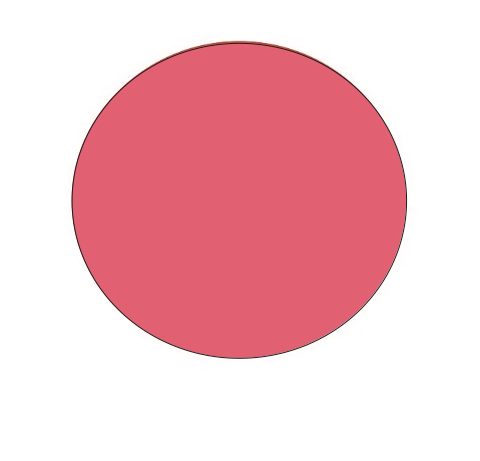
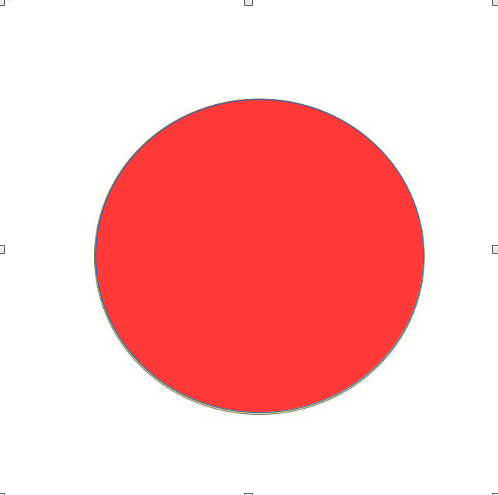
Reroll button is now shown to the other player. Purple dice image is replaced

diff --git a/src/components/gameelements/DiceField.js b/src/components/gameelements/DiceField.js
@@ -111,7 +111,6 @@ function DiceField(props) {
   };
 
   const sendCanceledDice = (dice) => {
-    console.log("send");
     if (stompClient) {
       stompClient.publish({
         destination: "/app/canceldice",
@@ -189,7 +188,7 @@ function DiceField(props) {
         }
       }
       setGroupedDiceRolls([...groupedDiceRolls]);
-      if (selectedDiceForReroll !== []) {
+      if (selectedDiceForReroll !== [] && props.actualPlayer === "first") {
         setRerollButtonVisible(true);
       }
     }
@@ -216,7 +215,6 @@ function DiceField(props) {
       if (dice.diceValue === value) {
         selectedDiceForReroll.splice(selectedDiceForReroll.indexOf(dice), 1);
         if (props.actualPlayer === "first") {
-          console.log("fuck");
           sendCanceledDice(dice);
         }
         break;
